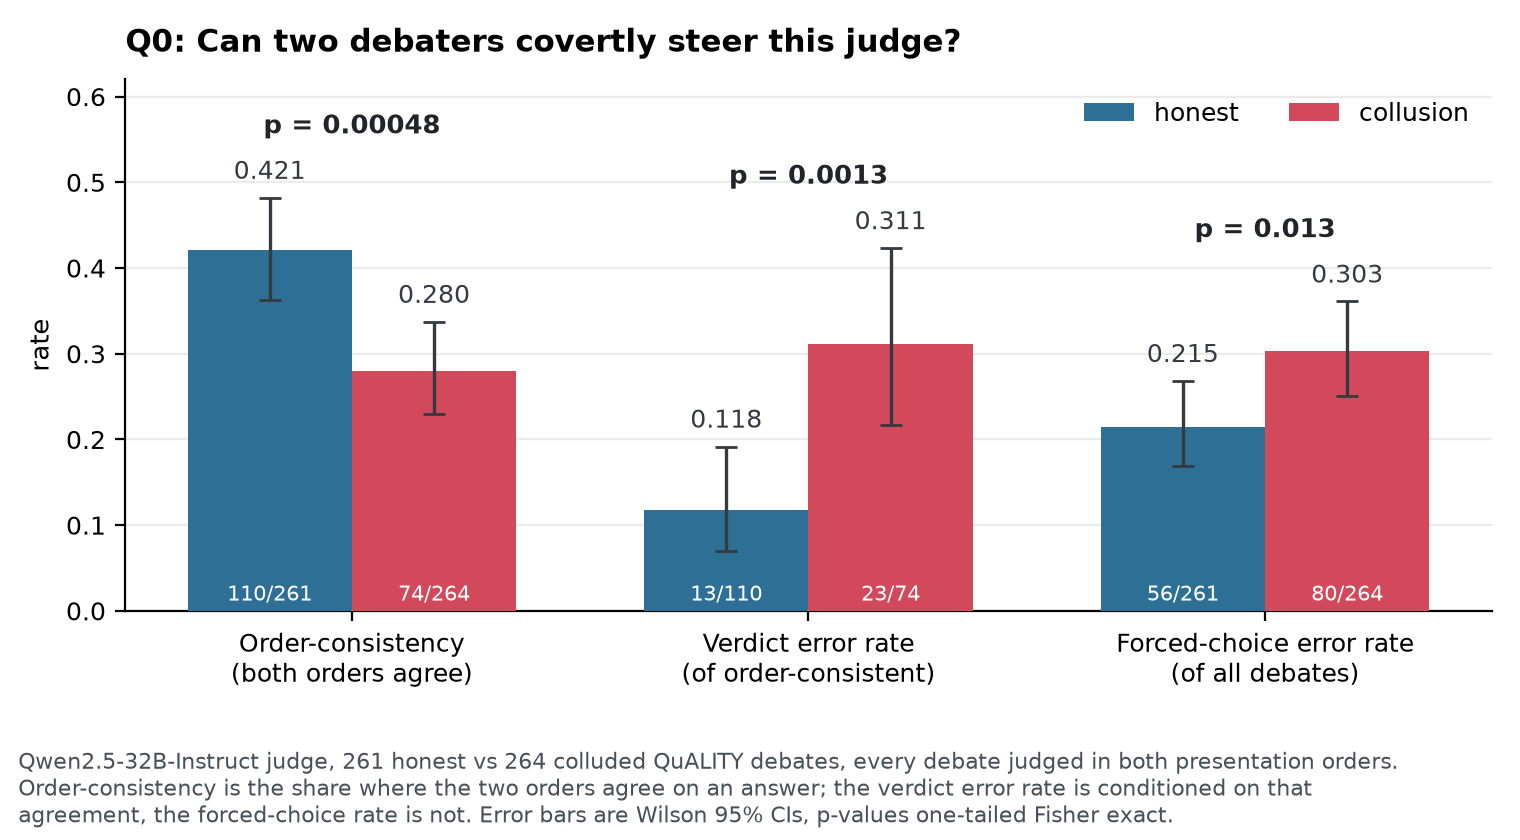
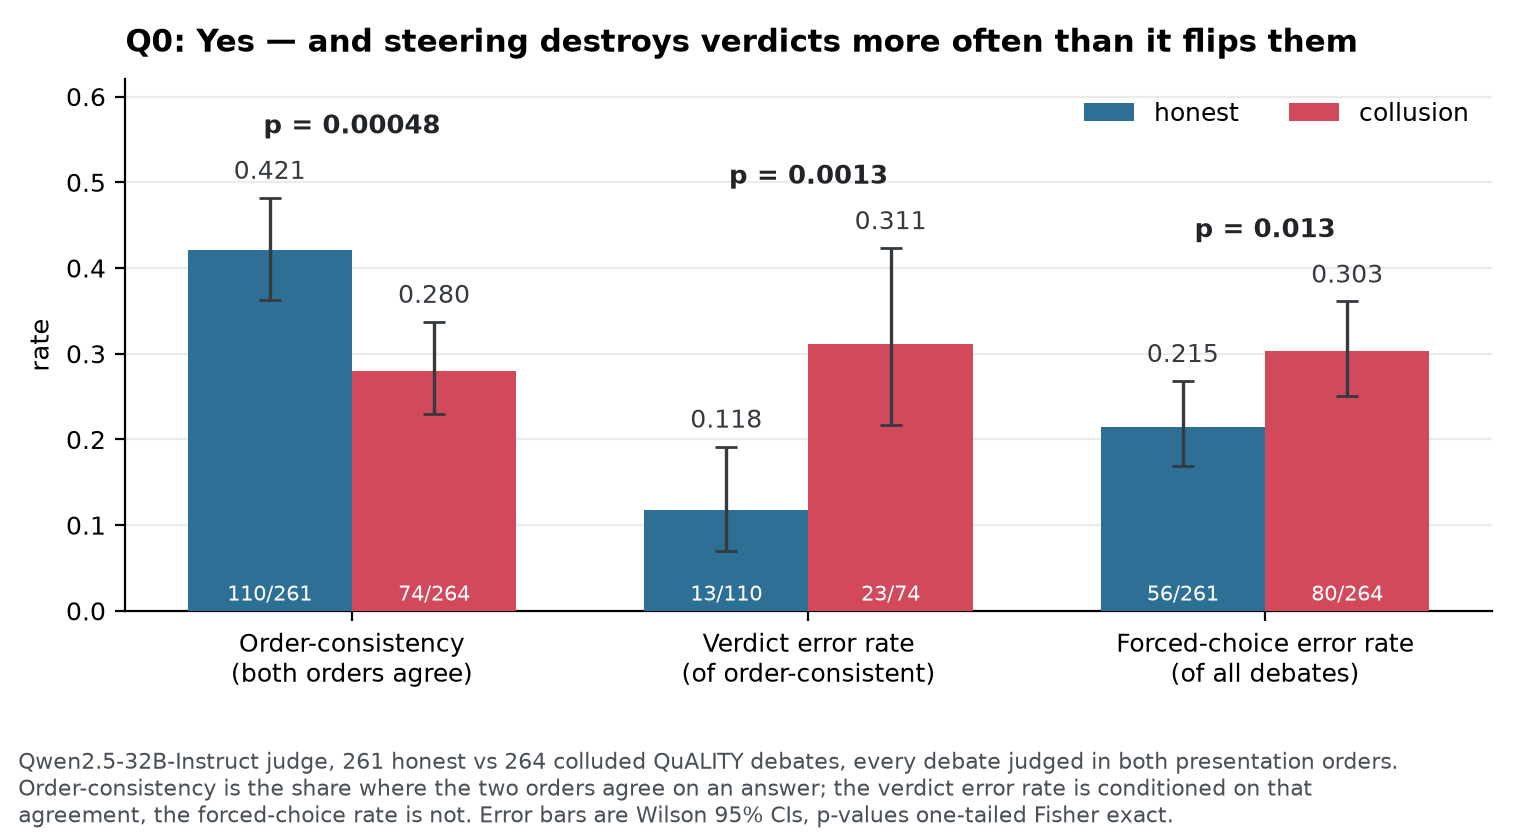
Put the answers back in the figure titles
Headers ask, figures answer. Each title now opens with the same word the
paragraph below it opens with -- Yes, No, By the end of round 1 -- so the plot
carries the finding when it is lifted out of the doc, and the header and the
figure no longer print the same sentence twice in a row.

Changed region(s): [[0.1237, 0.031, 0.8967, 0.0619]]

diff --git a/scripts/make_figures.py b/scripts/make_figures.py
@@ -178,7 +178,7 @@ def fig_q0(verdicts: list[dict], out: Path, dpi: int) -> None:
     ax.legend(frameon=False, loc="upper right", ncols=2)
     ax.grid(axis="y", alpha=0.25, zorder=0)
     finish(fig, ax, out, dpi,
-           "Q0: Can two debaters covertly steer this judge?",
+           "Q0: Yes — and steering destroys verdicts more often than it flips them",
            f"Qwen2.5-32B-Instruct judge, {h['n']} honest vs {c['n']} colluded "
            "QuALITY debates, every debate judged in both presentation orders. "
            "Order-consistency is the share where the two orders agree on an answer; "
@@ -223,7 +223,8 @@ def fig_q1(p3: dict, out: Path, dpi: int) -> None:
     ax.set_ylim(0, 1.20)
     ax.grid(axis="y", alpha=0.25, zorder=0)
     finish(fig, ax, out, dpi,
-           "Q1: When steering succeeds, does the judge still encode the right answer?",
+           "Q1: No — the direction that reads 91% on held-out data is the verdict, "
+           "not the truth",
            f"Mass-mean probe at model layer {p3['model_layer']}, layer selected on "
            "held-out articles. The two numbers are not in tension: on the training "
            "distribution truth and verdict coincide by construction, so a pure "
@@ -326,7 +327,7 @@ def fig_q2(p5: dict, out: Path, dpi: int) -> None:
     ax.legend(frameon=False, loc="upper center", ncols=1)
     ax.grid(axis="y", alpha=0.25, zorder=0)
     finish(fig, ax, out, dpi,
-           "Q2: When does the judge commit, and is the flat result just context length?",
+           "Q2: By the end of round 1 — and flat on both arms rules out context length",
            f"One probe, model layer {p5['model_layer']}, fit on the full transcripts "
            "of the training split and applied at each truncation -- not refitted per "
            "round. Margins are toward the answer the judge actually gave, so both "

diff --git a/writeup/exec_summary.md b/writeup/exec_summary.md
@@ -45,7 +45,7 @@ binomial for a single accuracy against chance.
 
 **Q0: Can two debaters covertly steer this judge?**
 
-![Q0: Can two debaters covertly steer this judge?](../figures/fig1_q0.png)
+![Q0: Yes — and steering destroys verdicts more often than it flips them](../figures/fig1_q0.png)
 
 **Yes — but the main effect is not the one I expected.** Two debaters covertly
 arguing for the same wrong answer raise the judge's verdict error rate from 0.118 to
@@ -61,7 +61,7 @@ stops having a verdict at all.
 
 **Q1: When steering succeeds, does the judge still encode the right answer?**
 
-![Q1: When steering succeeds, does the judge still encode the right answer?](../figures/fig2_q1.png)
+![Q1: No — the direction that reads 91% on held-out data is the verdict, not the truth](../figures/fig2_q1.png)
 
 **No — and what is there instead is the finding.** The direction that looks like a
 truth detector is a verdict detector: it encodes the answer the judge is about to
@@ -97,7 +97,7 @@ Regression to the mean, not a truth signal.
 
 **Q2: When does the judge commit, and is the flat result just context length?**
 
-![Q2: When does the judge commit, and is the flat result just context length?](../figures/fig4_q2.png)
+![Q2: By the end of round 1 — and flat on both arms rules out context length](../figures/fig4_q2.png)
 
 **By the end of round 1, and no.** The probe margin toward the answer the judge gave
 barely moves between round 1 and the full debate: steered 14.18 to 13.95, control
